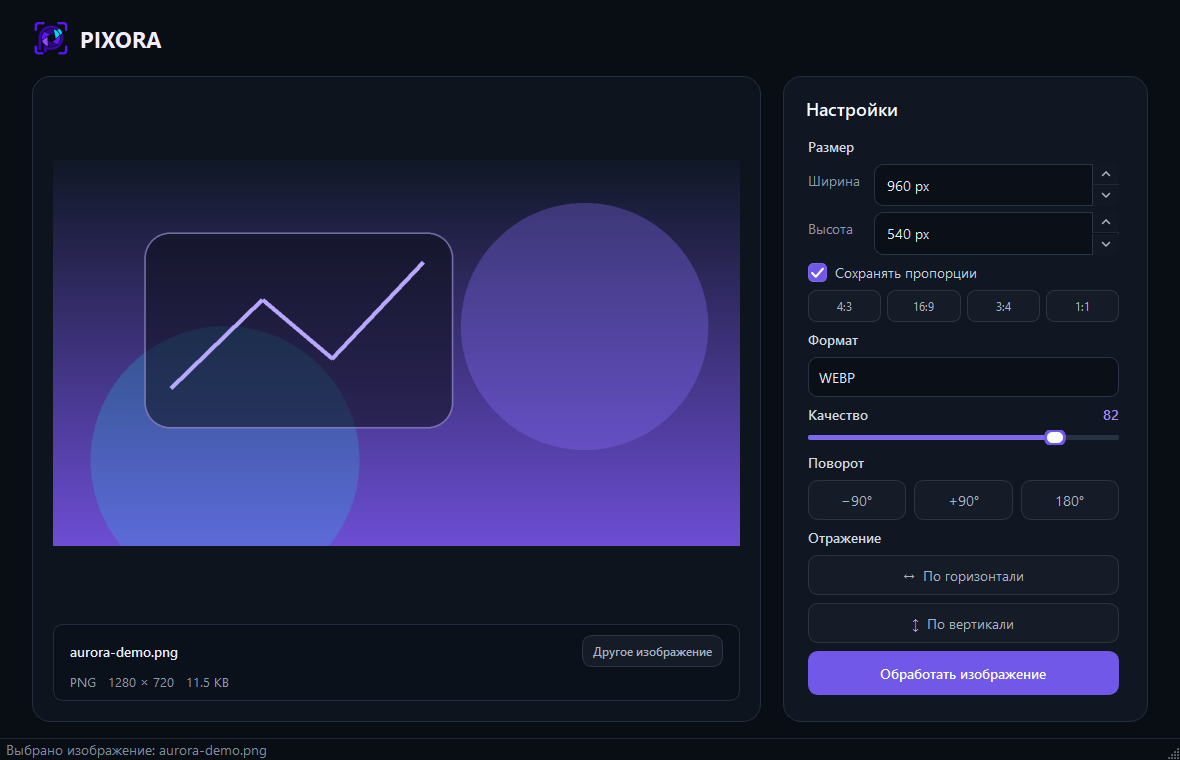
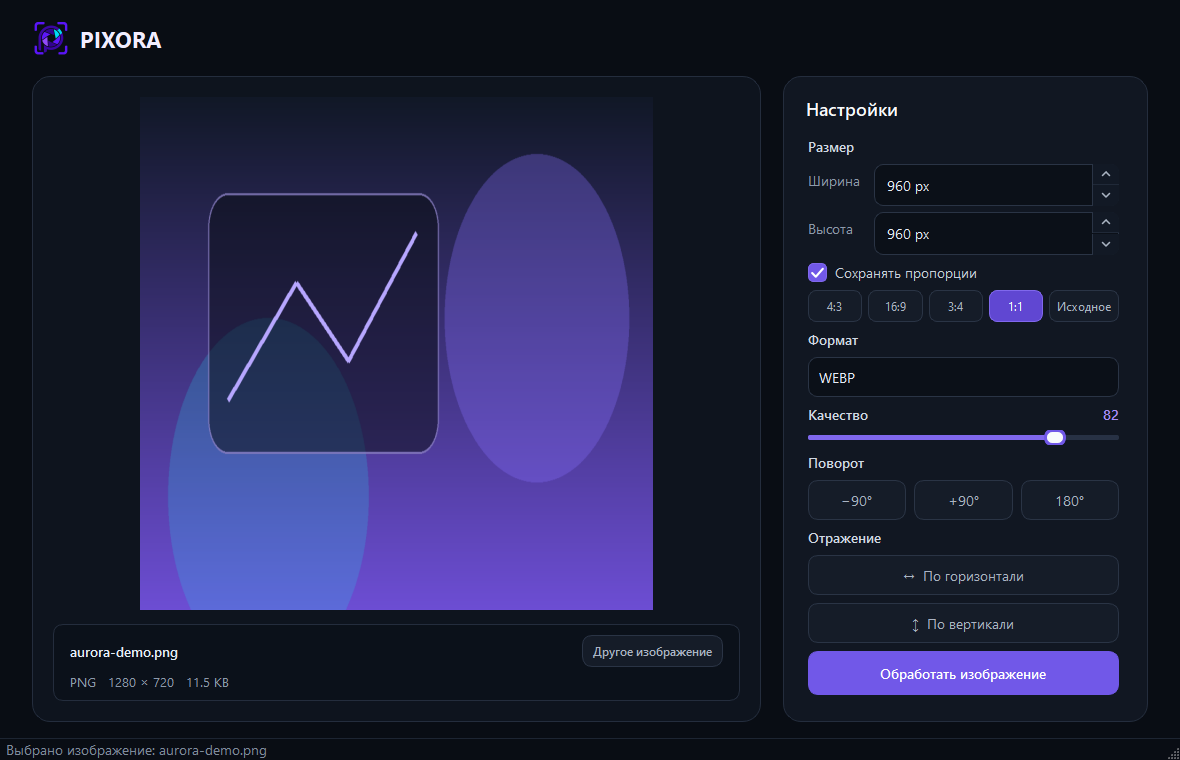
Добавил превью пропорций и возврат к исходному размеру

Changed region(s): [[0.0305, 0.1816, 0.6407, 0.8171], [0.7017, 0.3632, 0.9458, 0.4237], [0.1831, 0.2421, 0.3661, 0.2724]]

diff --git a/app/ui/settings_panel.py b/app/ui/settings_panel.py
@@ -28,11 +28,14 @@ class SettingsPanel(QWidget):
     MAX_DIMENSION = MAX_IMAGE_DIMENSION
     processing_requested = Signal()
     preview_transform_changed = Signal(int, bool, bool)
+    preview_dimensions_changed = Signal(int, int)
 
     def __init__(self, parent: QWidget | None = None) -> None:
         super().__init__(parent)
         self.setObjectName("settingsPanel")
         self._aspect_ratio: float | None = None
+        self._source_width: int | None = None
+        self._source_height: int | None = None
         self._rotation = 0
 
         layout = QVBoxLayout(self)
@@ -91,6 +94,18 @@ class SettingsPanel(QWidget):
             self.aspect_preset_group.addButton(button)
             self.aspect_preset_buttons[text] = button
             aspect_presets_layout.addWidget(button)
+
+        self.restore_aspect_button = QPushButton("Исходное", self)
+        self.restore_aspect_button.setObjectName("aspectResetButton")
+        self.restore_aspect_button.setEnabled(False)
+        self.restore_aspect_button.setCursor(Qt.CursorShape.PointingHandCursor)
+        self.restore_aspect_button.setToolTip(
+            "Вернуть исходные размеры и соотношение сторон"
+        )
+        self.restore_aspect_button.clicked.connect(
+            self._restore_source_dimensions
+        )
+        aspect_presets_layout.addWidget(self.restore_aspect_button)
         layout.addLayout(aspect_presets_layout)
 
         format_label = QLabel("Формат", self)
@@ -210,6 +225,8 @@ class SettingsPanel(QWidget):
 
     def set_image_info(self, image_info: ImageInfo) -> None:
         """Populate dimensions and enable controls for a selected image."""
+        self._source_width = image_info.width
+        self._source_height = image_info.height
         self._aspect_ratio = image_info.width / image_info.height
         self._rotation = 0
         with (
@@ -227,6 +244,7 @@ class SettingsPanel(QWidget):
         self._clear_aspect_preset()
         for button in self.aspect_preset_buttons.values():
             button.setEnabled(True)
+        self.restore_aspect_button.setEnabled(True)
         self.output_format_combo.setCurrentText(image_info.format)
         self.output_format_combo.setEnabled(True)
         self._update_quality_state(self.output_format_combo.currentText())
@@ -239,6 +257,7 @@ class SettingsPanel(QWidget):
                 button.setChecked(False)
             button.setEnabled(True)
         self.process_button.setEnabled(True)
+        self._emit_preview_dimensions()
         self._emit_preview_transform()
 
     @property
@@ -282,22 +301,20 @@ class SettingsPanel(QWidget):
     @Slot(int)
     def _on_width_changed(self, width: int) -> None:
         """Recalculate height while preserving the source aspect ratio."""
-        if not self.keep_aspect_checkbox.isChecked() or self._aspect_ratio is None:
-            return
-
-        height = max(1, round(width / self._aspect_ratio))
-        with QSignalBlocker(self.height_spin_box):
-            self.height_spin_box.setValue(height)
+        if self.keep_aspect_checkbox.isChecked() and self._aspect_ratio is not None:
+            height = max(1, round(width / self._aspect_ratio))
+            with QSignalBlocker(self.height_spin_box):
+                self.height_spin_box.setValue(height)
+        self._emit_preview_dimensions()
 
     @Slot(int)
     def _on_height_changed(self, height: int) -> None:
         """Recalculate width while preserving the source aspect ratio."""
-        if not self.keep_aspect_checkbox.isChecked() or self._aspect_ratio is None:
-            return
-
-        width = max(1, round(height * self._aspect_ratio))
-        with QSignalBlocker(self.width_spin_box):
-            self.width_spin_box.setValue(width)
+        if self.keep_aspect_checkbox.isChecked() and self._aspect_ratio is not None:
+            width = max(1, round(height * self._aspect_ratio))
+            with QSignalBlocker(self.width_spin_box):
+                self.width_spin_box.setValue(width)
+        self._emit_preview_dimensions()
 
     @Slot(bool)
     def _on_keep_aspect_toggled(self, is_checked: bool) -> None:
@@ -314,6 +331,7 @@ class SettingsPanel(QWidget):
         self._aspect_ratio = (
             self.width_spin_box.value() / self.height_spin_box.value()
         )
+        self._emit_preview_dimensions()
 
     @Slot(str)
     def _update_quality_state(self, output_format: str) -> None:
@@ -350,6 +368,23 @@ class SettingsPanel(QWidget):
         self.keep_aspect_checkbox.setChecked(True)
         self._on_width_changed(self.width_spin_box.value())
 
+    def _restore_source_dimensions(self) -> None:
+        """Clear a preset and restore the loaded image dimensions."""
+        if self._source_width is None or self._source_height is None:
+            return
+
+        self._clear_aspect_preset()
+        self._aspect_ratio = self._source_width / self._source_height
+        with (
+            QSignalBlocker(self.width_spin_box),
+            QSignalBlocker(self.height_spin_box),
+            QSignalBlocker(self.keep_aspect_checkbox),
+        ):
+            self.width_spin_box.setValue(self._source_width)
+            self.height_spin_box.setValue(self._source_height)
+            self.keep_aspect_checkbox.setChecked(True)
+        self._emit_preview_dimensions()
+
     def _clear_aspect_preset(self) -> None:
         """Clear the exclusive preset selection programmatically."""
         self.aspect_preset_group.setExclusive(False)
@@ -364,6 +399,13 @@ class SettingsPanel(QWidget):
             self.rotation,
             self.flip_horizontal,
             self.flip_vertical,
+        )
+
+    def _emit_preview_dimensions(self) -> None:
+        """Publish output dimensions for the live source preview."""
+        self.preview_dimensions_changed.emit(
+            self.width_spin_box.value(),
+            self.height_spin_box.value(),
         )
 
     def _create_dimension_spin_box(self, object_name: str) -> QSpinBox:

diff --git a/app/ui/preview_widget.py b/app/ui/preview_widget.py
@@ -24,6 +24,7 @@ from app.utils.validation import ImageValidationError, validate_image_file
 class PreviewWidget(QWidget):
     """Switch between the drop zone and a scaled image preview."""
 
+    MAX_RENDER_DIMENSION = 2048
     file_selected = Signal(str)
     file_rejected = Signal(str)
 
@@ -33,6 +34,8 @@ class PreviewWidget(QWidget):
 
         self._source_pixmap = QPixmap()
         self._image_info: ImageInfo | None = None
+        self._output_width: int | None = None
+        self._output_height: int | None = None
         self._rotation = 0
         self._flip_horizontal = False
         self._flip_vertical = False
@@ -93,6 +96,8 @@ class PreviewWidget(QWidget):
         format_name = "JPEG" if suffix in {".jpg", ".jpeg"} else suffix[1:].upper()
 
         self._source_pixmap = source_pixmap
+        self._output_width = source_pixmap.width()
+        self._output_height = source_pixmap.height()
         self._rotation = 0
         self._flip_horizontal = False
         self._flip_vertical = False
@@ -122,6 +127,15 @@ class PreviewWidget(QWidget):
         self._flip_vertical = flip_vertical
         self._update_scaled_pixmap()
 
+    @Slot(int, int)
+    def set_output_size(self, width: int, height: int) -> None:
+        """Preview the exact output proportions without editing the source."""
+        if width < 1 or height < 1:
+            return
+        self._output_width = width
+        self._output_height = height
+        self._update_scaled_pixmap()
+
     def resizeEvent(self, event: QResizeEvent) -> None:
         """Rescale the preview whenever the available area changes."""
         super().resizeEvent(event)
@@ -133,9 +147,8 @@ class PreviewWidget(QWidget):
             return
 
         preview_pixmap = self._transformed_pixmap()
-        target_size = self._preview_label.size().boundedTo(preview_pixmap.size())
         scaled_pixmap = preview_pixmap.scaled(
-            target_size,
+            self._preview_label.size(),
             Qt.AspectRatioMode.KeepAspectRatio,
             Qt.TransformationMode.SmoothTransformation,
         )
@@ -143,7 +156,7 @@ class PreviewWidget(QWidget):
 
     def _transformed_pixmap(self) -> QPixmap:
         """Apply the same visual transform order as the processing pipeline."""
-        pixmap = self._source_pixmap
+        pixmap = self._resized_pixmap()
         if self._rotation:
             pixmap = pixmap.transformed(
                 QTransform().rotate(self._rotation),
@@ -158,6 +171,28 @@ class PreviewWidget(QWidget):
                 Qt.TransformationMode.FastTransformation,
             )
         return pixmap
+
+    def _resized_pixmap(self) -> QPixmap:
+        """Render output proportions while keeping preview memory bounded."""
+        if self._output_width is None or self._output_height is None:
+            return self._source_pixmap
+
+        largest_dimension = max(self._output_width, self._output_height)
+        scale = min(1.0, self.MAX_RENDER_DIMENSION / largest_dimension)
+        render_width = max(1, round(self._output_width * scale))
+        render_height = max(1, round(self._output_height * scale))
+        if (
+            render_width == self._source_pixmap.width()
+            and render_height == self._source_pixmap.height()
+        ):
+            return self._source_pixmap
+
+        return self._source_pixmap.scaled(
+            render_width,
+            render_height,
+            Qt.AspectRatioMode.IgnoreAspectRatio,
+            Qt.TransformationMode.SmoothTransformation,
+        )
 
     def _create_file_info_bar(self, parent: QWidget) -> QFrame:
         """Create labels for the selected file metadata."""

diff --git a/tests/test_ui_contracts.py b/tests/test_ui_contracts.py
@@ -50,8 +50,10 @@ from PySide6.QtWidgets import QApplication
 from app.models import ImageInfo
 from app.ui.preview_widget import PreviewWidget
 from app.ui.settings_panel import SettingsPanel
+from app.ui.theme import apply_dark_theme
 
 application = QApplication([])
+apply_dark_theme(application)
 panel = SettingsPanel()
 panel.set_image_info(ImageInfo(Path('image.png'), 'image.png', 'PNG', 16, 9, 64))
 assert panel.output_format_combo.currentText() == 'PNG'
@@ -73,12 +75,28 @@ assert transforms[-1] == (90, False, False)
 panel.flip_horizontal_button.click()
 assert transforms[-1] == (90, True, False)
 
+dimensions = []
+panel.preview_dimensions_changed.connect(lambda *values: dimensions.append(values))
 panel.width_spin_box.setValue(1600)
 panel.aspect_preset_buttons['16:9'].click()
 assert panel.keep_aspect_checkbox.isChecked()
 assert panel.height_spin_box.value() == 900
+assert dimensions[-1] == (1600, 900)
 panel.aspect_preset_buttons['1:1'].click()
 assert panel.height_spin_box.value() == 1600
+panel.restore_aspect_button.click()
+assert panel.aspect_preset_group.checkedButton() is None
+assert panel.keep_aspect_checkbox.isChecked()
+assert (panel.width_spin_box.value(), panel.height_spin_box.value()) == (16, 9)
+assert dimensions[-1] == (16, 9)
+
+panel.show()
+panel.output_format_combo.showPopup()
+application.processEvents()
+popup_view = panel.output_format_combo.view()
+assert popup_view.geometry().top() == 0
+assert popup_view.height() == popup_view.window().height()
+panel.output_format_combo.hidePopup()
 
 preview = PreviewWidget()
 image = QImage(2, 3, QImage.Format.Format_RGB32)
@@ -95,6 +113,11 @@ assert [rotated.pixelColor(x, 0).red() for x in range(3)] == [5, 3, 1]
 preview.set_transform(0, True, False)
 reflected = preview._transformed_pixmap().toImage()
 assert [reflected.pixelColor(x, 0).red() for x in range(2)] == [2, 1]
+
+preview.set_transform(0, False, False)
+preview.set_output_size(16, 9)
+resized = preview._transformed_pixmap().toImage()
+assert (resized.width(), resized.height()) == (16, 9)
 """
     environment = os.environ.copy()
     environment["QT_QPA_PLATFORM"] = "offscreen"

diff --git a/app/ui/main_window.py b/app/ui/main_window.py
@@ -165,6 +165,9 @@ class MainWindow(QMainWindow):
         self.settings_panel.preview_transform_changed.connect(
             self.preview_widget.set_transform
         )
+        self.settings_panel.preview_dimensions_changed.connect(
+            self.preview_widget.set_output_size
+        )
         self.settings_scroll_area.setWidget(self.settings_panel)
         layout.addWidget(self.settings_scroll_area, stretch=1)
         return settings_card

diff --git a/scripts/capture_screenshots.py b/scripts/capture_screenshots.py
@@ -56,6 +56,7 @@ def main() -> int:
         window.show()
         window.preview_widget.load_image(str(sample_path))
         window.settings_panel.width_spin_box.setValue(960)
+        window.settings_panel.aspect_preset_buttons["1:1"].click()
         window.settings_panel.output_format_combo.setCurrentText("WEBP")
         window.settings_panel.quality_slider.setValue(82)
         application.processEvents()

diff --git a/README.md b/README.md
@@ -9,7 +9,7 @@
 </p>
 
 <p align="center">
-  <a href="https://github.com/7sy-png/Pixora/releases/latest/download/Pixora-v1.1.0-windows-x64.exe">
+  <a href="https://github.com/7sy-png/Pixora/releases/latest/download/Pixora-v1.2.0-windows-x64.exe">
     <strong>Скачать Pixora для Windows</strong>
   </a>
 </p>
@@ -24,7 +24,7 @@
 - настройка качества JPEG и WEBP;
 - поворот на −90°, +90° и 180°;
 - отражение по горизонтали и вертикали;
-- живой предпросмотр поворота и отражения;
+- живой предпросмотр размера, пропорций, поворота и отражения;
 - Drag & Drop и выбор файла через проводник;
 - предпросмотр результата перед сохранением;
 - обработка без зависания интерфейса.
@@ -32,7 +32,7 @@
 ## Скачать и запустить
 
 1. Скачайте
-   [Pixora-v1.1.0-windows-x64.exe](https://github.com/7sy-png/Pixora/releases/latest/download/Pixora-v1.1.0-windows-x64.exe).
+   [Pixora-v1.2.0-windows-x64.exe](https://github.com/7sy-png/Pixora/releases/latest/download/Pixora-v1.2.0-windows-x64.exe).
 2. Запустите файл — установка не требуется.
 3. Выберите изображение и задайте параметры обработки.
 
